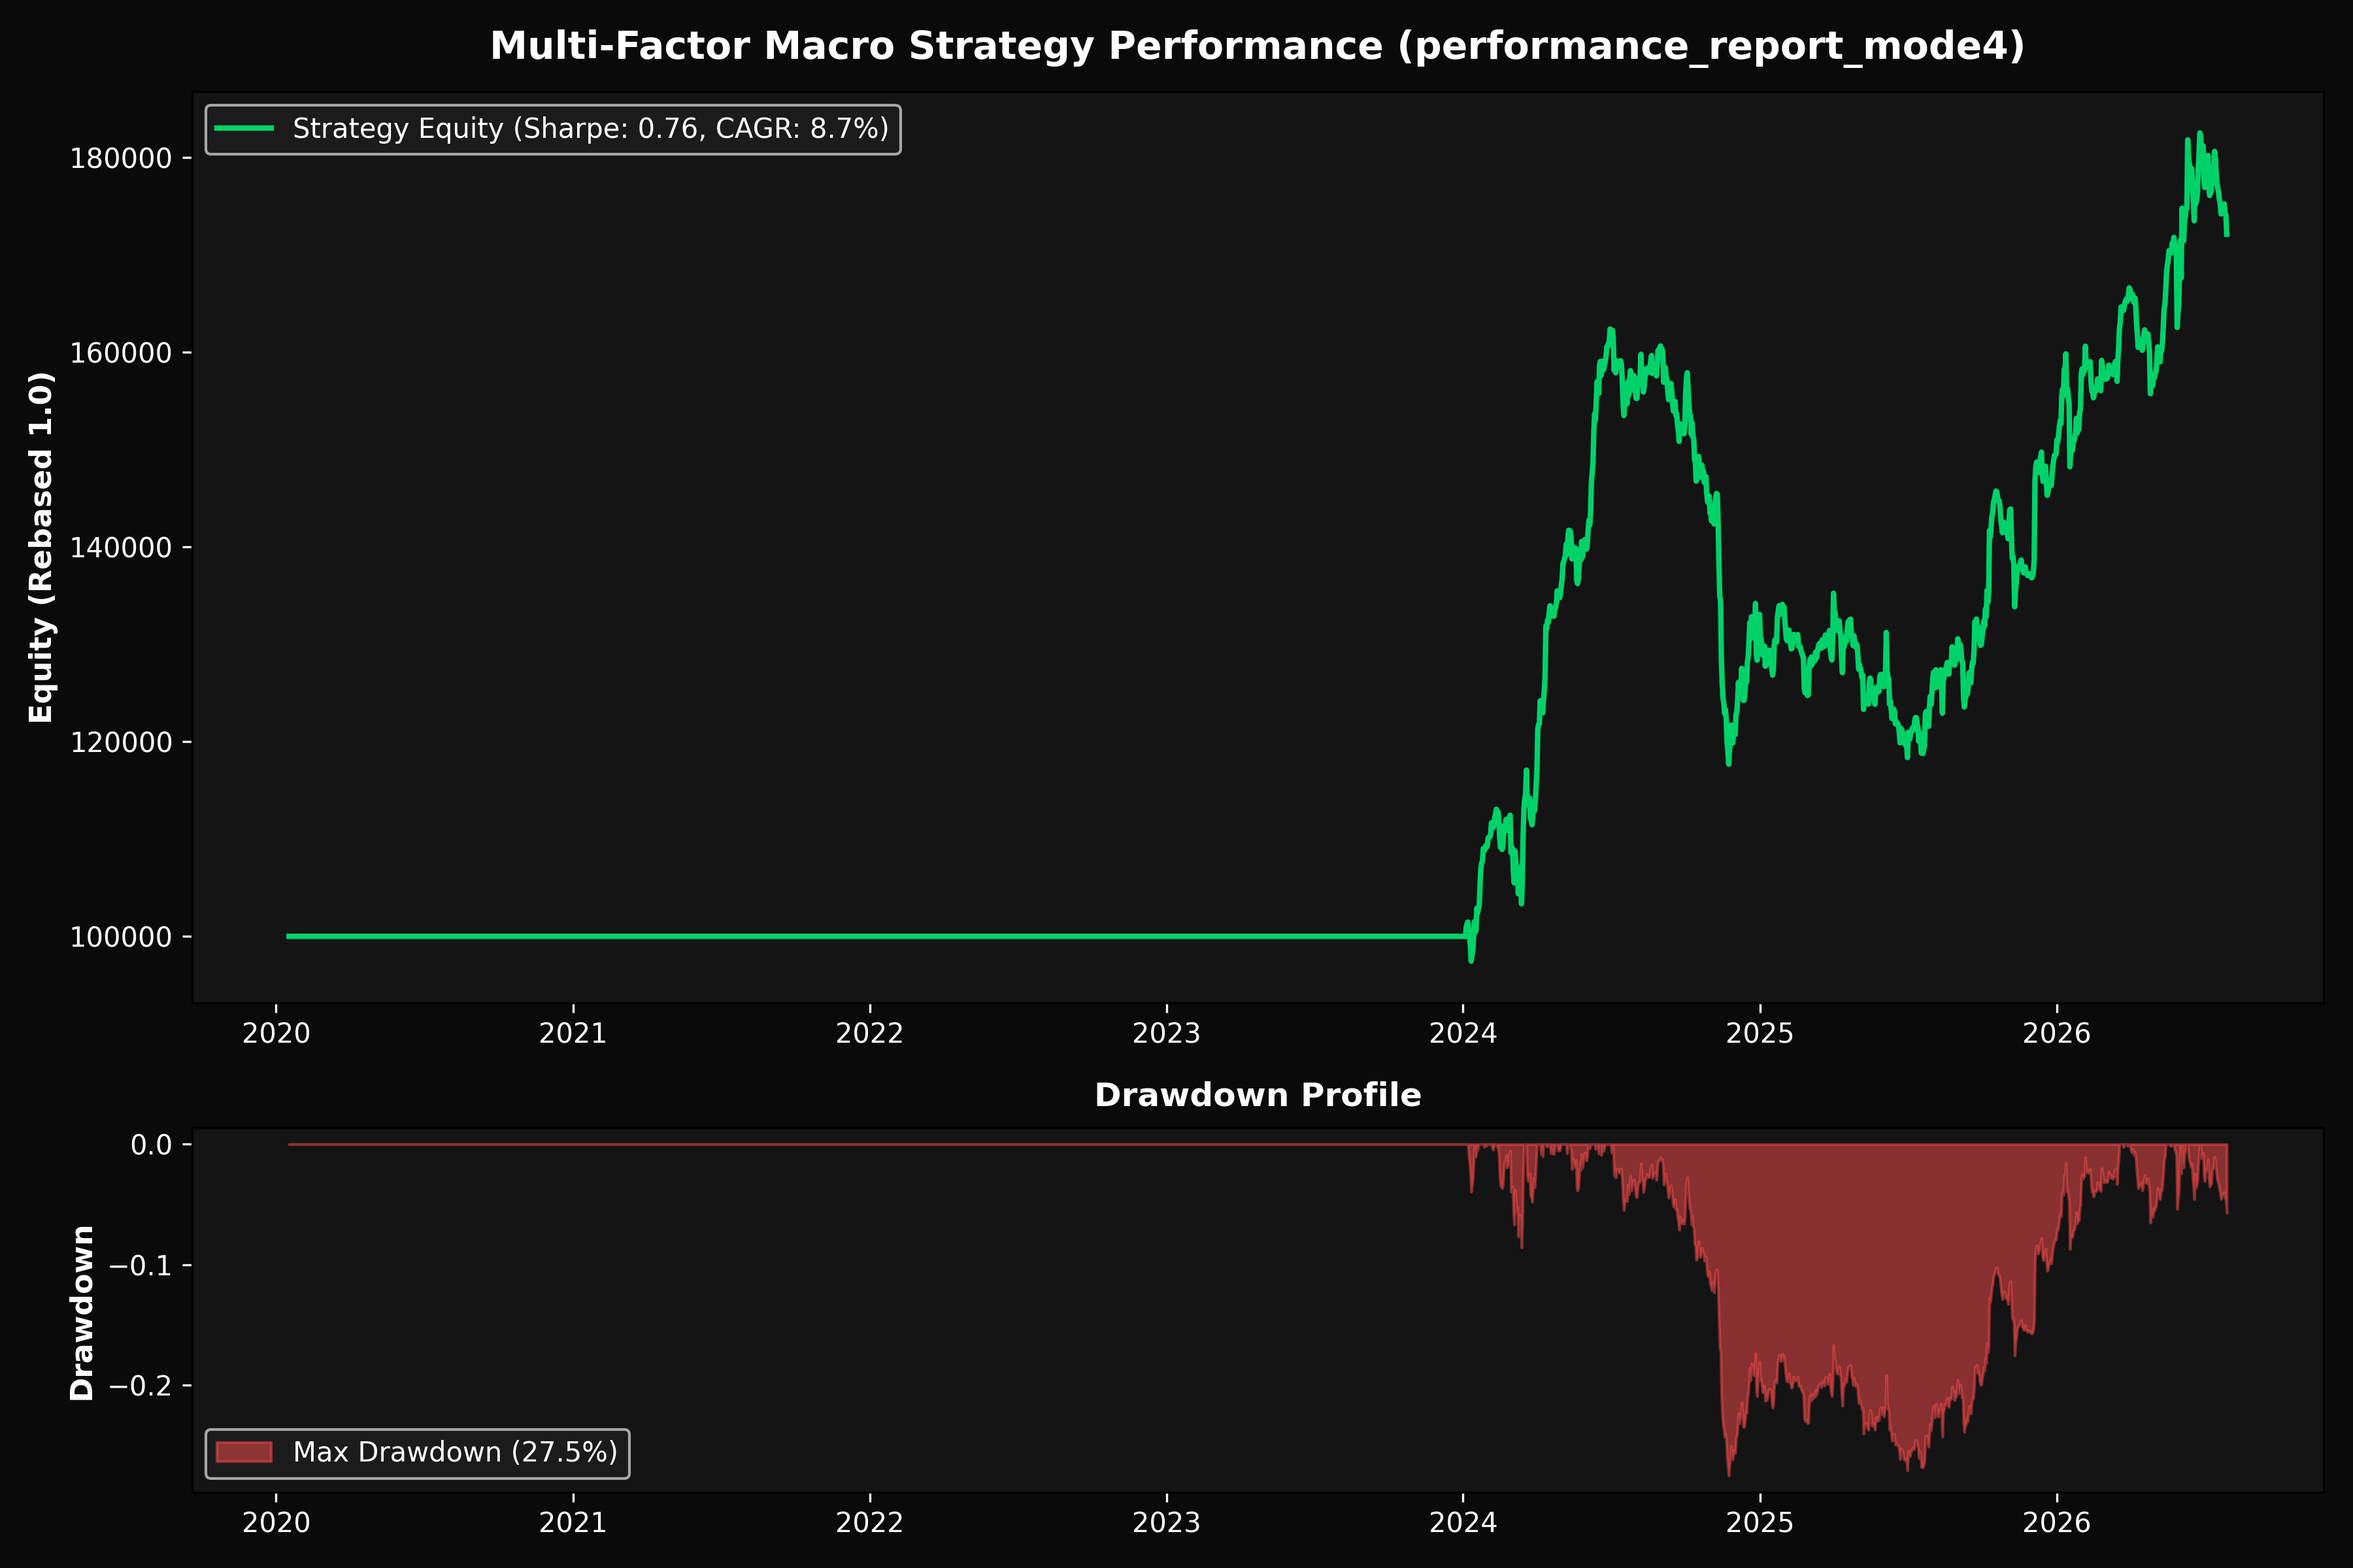
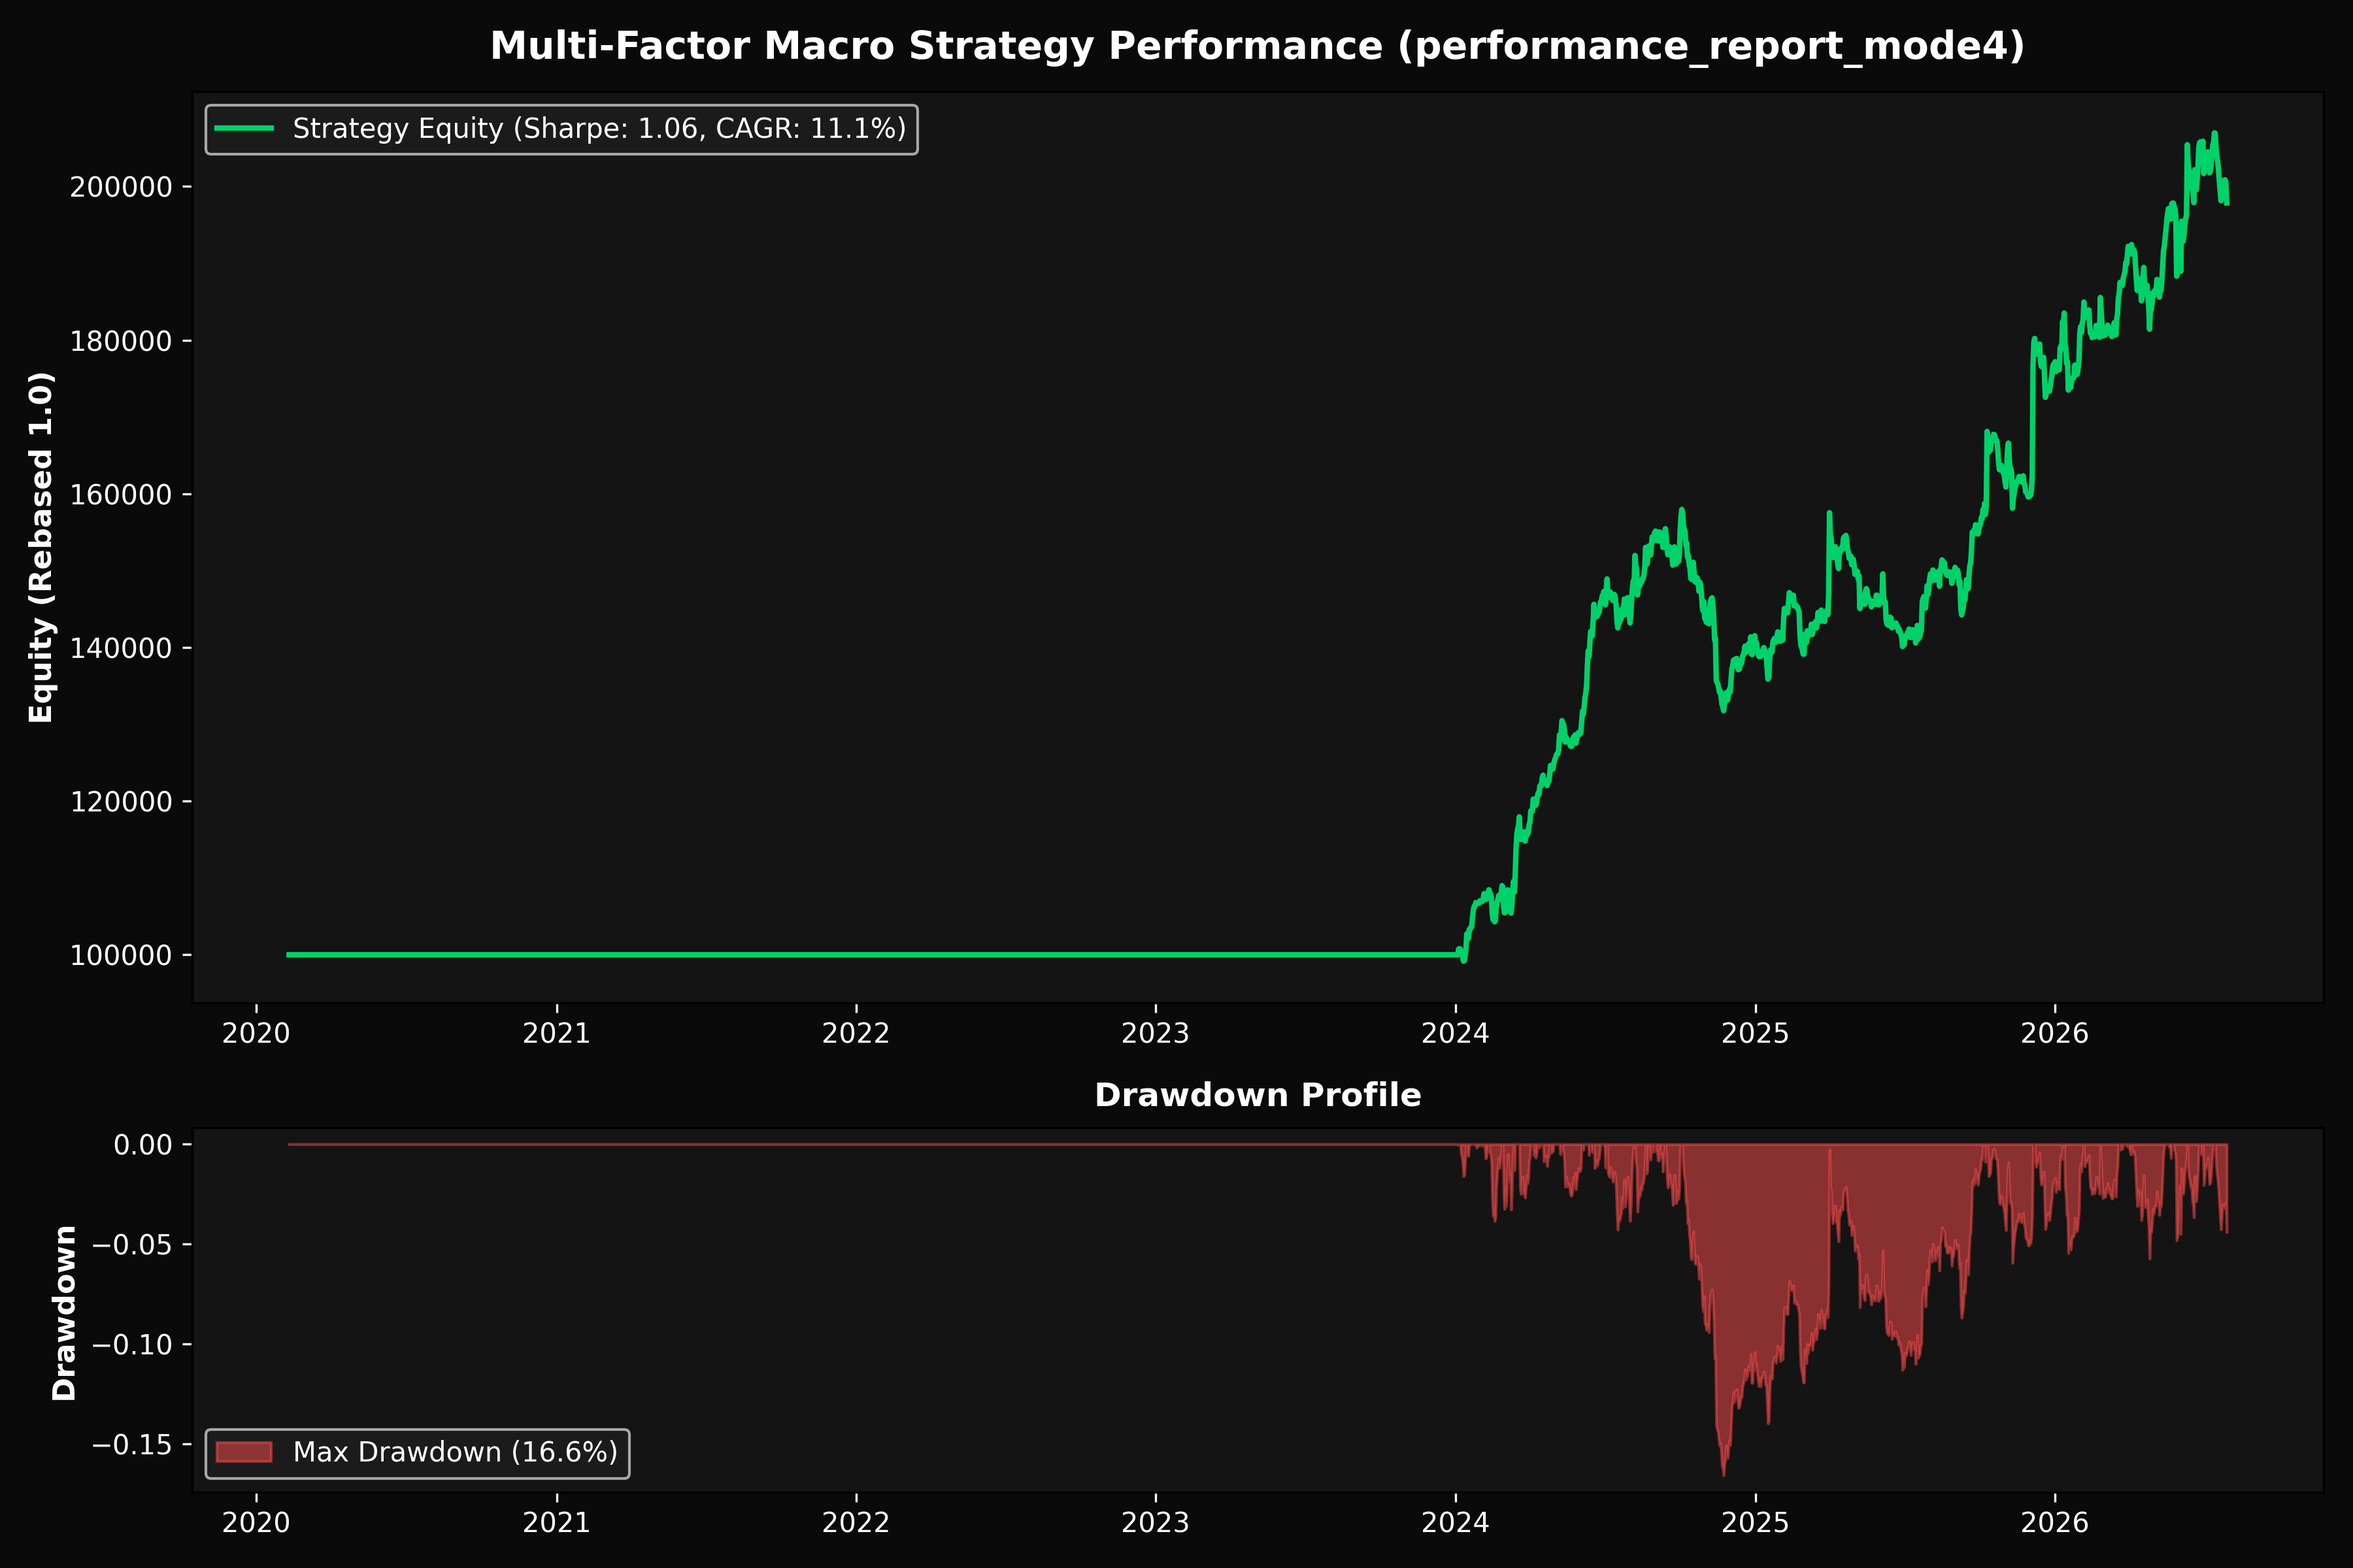
feat(stage2): integrate Volatility Ceiling 4% Risk Scaling and update Stage 2 Optuna parameters (Mode 4 Sharpe 1.057, Max DD 16.59%)

diff --git a/src/multifactor_mlops/portfolio/constructor.py b/src/multifactor_mlops/portfolio/constructor.py
@@ -151,3 +151,39 @@ class PortfolioConstructor:
             raise PortfolioInvariantError(f"Short weights sum is positive: {short_sum}")
         if max_weight > self.allocation_cap + 1e-4:
             raise PortfolioInvariantError(f"Max asset weight ({max_weight}) exceeds allocation cap ({self.allocation_cap})")
+
+    @staticmethod
+    def apply_volatility_ceiling_filter(
+        weights_df: pd.DataFrame,
+        data_dict: Dict[str, pd.DataFrame],
+        vol_ceiling_pct: float = 0.06,
+        vol_window: int = 14
+    ) -> pd.DataFrame:
+        """
+        Idea 3 (Volatility Ceiling Risk Scaling): Reduces sizing by 50% on assets whose 14-day daily
+        return volatility exceeds vol_ceiling_pct (default 6%).
+        """
+        if weights_df.empty or not isinstance(data_dict, dict):
+            return weights_df
+
+        closes = {}
+        for sym in weights_df.columns:
+            if sym in data_dict and not data_dict[sym].empty:
+                df = data_dict[sym]
+                c_col = 'Close' if 'Close' in df.columns else ('close' if 'close' in df.columns else None)
+                if c_col:
+                    closes[sym] = df[c_col]
+
+        if not closes:
+            return weights_df
+
+        close_df = pd.DataFrame(closes).reindex(weights_df.index).ffill()
+        close_df = close_df.reindex(columns=weights_df.columns)
+        daily_returns = close_df.pct_change()
+        rolling_vol = daily_returns.rolling(window=vol_window, min_periods=5).std()
+
+        modified = weights_df.copy()
+        high_vol_mask = (rolling_vol > vol_ceiling_pct).fillna(False)
+        modified = modified.mask(high_vol_mask, modified * 0.5)
+
+        return modified.fillna(0.0)

diff --git a/multifactor_portfolio/training/train.py b/multifactor_portfolio/training/train.py
@@ -655,6 +655,17 @@ def run_strategy_backtest(
         print(f"Warning: Failed to apply PA 5.1 Sigmoid Macro Risk Overlay: {e}")
         
     train_cfg = params.get('training', {}) if isinstance(params.get('training'), dict) else {}
+
+    # Idea 3: Volatility Ceiling Risk Scaling (Scale down 50% for high-vol altcoins > vol_ceiling_pct)
+    vol_ceiling_pct = params.get('volatility_ceiling') if params.get('volatility_ceiling') is not None else train_cfg.get('volatility_ceiling', 0.06)
+    if vol_ceiling_pct > 0.0:
+        from src.multifactor_mlops.portfolio.constructor import PortfolioConstructor
+        portfolio_weights = PortfolioConstructor.apply_volatility_ceiling_filter(
+            weights_df=portfolio_weights,
+            data_dict=data_dict,
+            vol_ceiling_pct=vol_ceiling_pct
+        )
+        print(f"Applied Volatility Ceiling Risk Scaling ({vol_ceiling_pct*100:.1f}%).")
     
     allocation_cap = params.get('allocation_cap') if params.get('allocation_cap') is not None else train_cfg.get('allocation_cap', 0.15)
     portfolio_weights = portfolio_weights.clip(lower=-allocation_cap, upper=allocation_cap)

diff --git a/src/multifactor_mlops/optimization/stage2_strategy_tuning.py b/src/multifactor_mlops/optimization/stage2_strategy_tuning.py
@@ -62,6 +62,7 @@ class Stage2StrategyOptimizer:
         rebalance_schedule = trial.suggest_categorical("rebalance_schedule", ["calendar_3d", "calendar_5d", "weekly_friday_exit"])
         rebalance_thresh = trial.suggest_float("rebalance_threshold", 0.01, 0.05, step=0.01)
         allocation_cap = trial.suggest_float("allocation_cap", 0.10, 0.35, step=0.05)
+        vol_ceiling = trial.suggest_float("volatility_ceiling", 0.04, 0.10, step=0.01)
         stress_vix = trial.suggest_float("stress_vix_threshold", 18.0, 30.0, step=2.0)
         stress_fng = trial.suggest_float("stress_fng_threshold", 20.0, 40.0, step=5.0)
         stress_dvol = trial.suggest_float("stress_dvol_threshold", 50.0, 75.0, step=5.0)
@@ -75,6 +76,7 @@ class Stage2StrategyOptimizer:
             "rebalance_schedule": rebalance_schedule,
             "rebalance_threshold": rebalance_thresh,
             "allocation_cap": allocation_cap,
+            "volatility_ceiling": vol_ceiling,
             "stress_vix_threshold": stress_vix,
             "stress_fng_threshold": stress_fng,
             "stress_dvol_threshold": stress_dvol,
